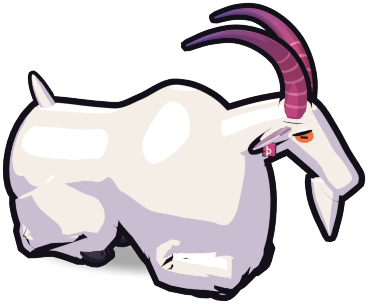
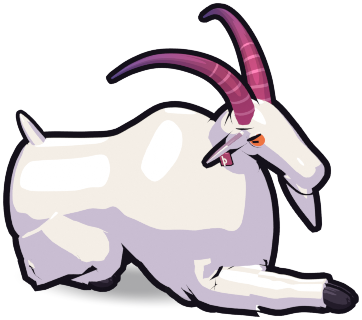
feat(brand): re-render Grisnir front 3/4, add head crop, milestone and waiting poses
The badge turns his face and both horns to the camera with the frame fitted
to the drawn outline, so the horn tips no longer clip. The rest pose now
lies sternal with one foreleg stretched forward and the head up, which reads
as a goat lying down where the folded-legs-only pose read as a lump. New:
a head-and-horns crop for small sizes, a hop for milestones and a waiting
stand beside a trail sign for empty states.

diff --git a/apps/web/src/lib/components/RestDayGrisnir.svelte b/apps/web/src/lib/components/RestDayGrisnir.svelte
@@ -11,13 +11,13 @@
 
 <div class="rest-grisnir" data-testid="rest-day-grisnir">
 	<picture>
-		<source type="image/webp" srcset="{ART}-192.webp 188w, {ART}-384.webp 368w" sizes="7.5rem" />
+		<source type="image/webp" srcset="{ART}-192.webp 184w, {ART}-384.webp 362w" sizes="7.5rem" />
 		<img
 			src="{ART}-192.png"
-			srcset="{ART}-192.png 188w, {ART}-384.png 368w"
+			srcset="{ART}-192.png 184w, {ART}-384.png 362w"
 			sizes="7.5rem"
-			width="188"
-			height="156"
+			width="184"
+			height="162"
 			alt=""
 			aria-hidden="true"
 			loading="lazy"

diff --git a/scripts/brand/render_mascot.py b/scripts/brand/render_mascot.py
@@ -9,19 +9,22 @@ is scaled down from a larger still.
 
 Options:
     --out DIR      where the raw renders go (default ~/.cache/grisnir-render/raw)
-    --only WHAT    badge | rest | all (default all)
+    --only WHAT    one pose name below, or all (default all)
     --preview      one 512 px render of each pose, for look-dev
 
 Poses:
-    badge   the standing 3/4 view, for a corner of a share card
-    rest    lying down with the legs folded under, for rest days
+    badge   standing, a front 3/4 view, horns clear of the frame
+    head    the same pose framed on the head and horns, for small sizes
+    rest    lying down, legs folded under, head up, for rest days
+    proud   a goat's hop (all four hooves tucked, off the ground), for milestones
+    wait    standing beside a trail post, looking back at you, for empty states
 
 Each pose is posed here from the rig's rest pose; the .blend is never edited.
 The camera is orthographic and fitted to the posed goat, Eevee with the
 model's own flat toon shading, film transparent. `render_mascot.sh` trims
 the transparent margin and writes the PNG and WebP exports.
 """
-import bpy, json, math, os, sys
+import bpy, bmesh, json, math, os, sys
 from mathutils import Vector
 from bpy_extras.object_utils import world_to_camera_view
 
@@ -40,12 +43,18 @@ PREVIEW = "--preview" in argv
 # the shipped file is a little smaller than this; README.md lists the results.
 SIZES = {
     "badge": [256],
+    "head": [128, 256],
     "rest": [192, 384],
+    "proud": [192, 384],
+    "wait": [192, 384],
 }
 # The outline is an inverted hull sized in model units, so a small render needs
 # a heavier line to hold the same drawn weight (render_sprites.py uses 1.6 for
-# its 256 px sprites).
-def ink_for(px):
+# its 256 px sprites). The head crop is drawn at a larger scale per px, so it
+# needs less help.
+def ink_for(px, close=False):
+    if close:
+        return 1.25 if px <= 128 else 1.0
     return 1.7 if px <= 192 else 1.35 if px <= 384 else 1.1
 
 
@@ -79,25 +88,37 @@ def line_weight(factor):
             ob.modifiers["hull"].strength = -base * (factor if base >= 0.008 else 1.0)
 
 
-def mesh_points():
+HEAD_PARTS = ("head", "horn_", "ear_", "eye_", "lid_", "lidline_", "pupil_", "beard", "tag")
+
+
+def mesh_points(head_only=False, shadow=False):
     dg = bpy.context.evaluated_depsgraph_get()
     pts = []
     for ob in scene.objects:
-        if ob.type == "MESH" and not ob.name.startswith("contact_shadow") and not ob.hide_render:
-            ev = ob.evaluated_get(dg)
-            me = ev.to_mesh()
-            pts += [ev.matrix_world @ v.co for v in me.vertices]
-            ev.to_mesh_clear()
+        if ob.type != "MESH" or ob.hide_render:
+            continue
+        if ob.name.startswith("contact_shadow") and not shadow:
+            continue
+        if head_only and not ob.name.startswith(HEAD_PARTS):
+            continue
+        ev = ob.evaluated_get(dg)
+        me = ev.to_mesh()
+        pts += [ev.matrix_world @ v.co for v in me.vertices]
+        ev.to_mesh_clear()
     return pts
 
 
-def frame_fit(tilt, margin):
+def frame_fit(tilt, margin, head_only=False, shadow=False, lift=0.0):
+    """Fit the orthographic camera to the posed goat's ink hull (so the line
+    weight must already be set). `lift` moves the frame's centre up by that
+    fraction of its height, for a bust whose neck should run off the bottom."""
     aim(tilt, (0, 0, 0), 10)
     bpy.context.view_layer.update()
-    pts = [world_to_camera_view(scene, cam, p) for p in mesh_points()]
+    pts = [world_to_camera_view(scene, cam, p) for p in mesh_points(head_only, shadow)]
     xs, ys = [p.x for p in pts], [p.y for p in pts]
     cx, cy = (min(xs) + max(xs)) / 2 - 0.5, (min(ys) + max(ys)) / 2 - 0.5
     ext = max(max(xs) - min(xs), max(ys) - min(ys)) * 10 * margin
+    cy -= lift * ext / 10
     t = math.radians(tilt)
     right, up = Vector((1, 0, 0)), Vector((0, math.cos(t), math.sin(t)))
     aim(tilt, right * cx * 10 + up * cy * 10, ext)
@@ -110,10 +131,23 @@ for b in pb:
     b.rotation_mode = "XYZ"
 
 
+BODY = [ob for ob in scene.objects if ob.type == "MESH" and not ob.name.startswith(HEAD_PARTS)]
+
+
+def bust(on):
+    """The head crop draws the head and horns alone, as a face icon: with the
+    body behind him the crop's edges cut a hard white block out of the coat,
+    and with the neck alone he reads as a mounted trophy."""
+    for ob in BODY:
+        ob.hide_render = on
+
+
 def reset():
+    bust(False)
     for b in pb:
         b.location = (0, 0, 0)
         b.rotation_euler = (0, 0, 0)
+    post_show(False)
 
 
 def yz_angle(bone):
@@ -129,11 +163,12 @@ LEG_SEGMENTS = {
 }
 
 
-def set_leg(leg, kind, absolute_deg):
-    """Pose one leg by the absolute side-plane angle of each segment, the way
-    the rig's own gait code does: each bone turns by its change in angle less
-    its parent's."""
-    prev = 0.0
+def set_leg(leg, kind, absolute_deg, body_pitch=0.0):
+    """Pose one leg by the absolute side-plane angle of each segment (0 points
+    forward, -90 straight down, 180 back), the way the rig's own gait code
+    does: each bone turns by its change in angle less its parent's. A pitched
+    body turns the whole leg with it, so `body_pitch` is taken back out."""
+    prev = math.radians(body_pitch)
     for seg, a in zip(LEG_SEGMENTS[kind], absolute_deg):
         bone = rig.data.bones[f"{leg}_{seg}"]
         delta = math.radians(a) - yz_angle(bone)
@@ -145,34 +180,159 @@ def heading(h):
     rig.rotation_euler = (0, 0, -math.radians(h))
 
 
+def look(neck_pitch=0.0, neck_turn=0.0, head_pitch=0.0, head_turn=0.0):
+    """Neck and head: pitch raises (+) or lowers the muzzle, turn swings it
+    toward the goat's right (+), which faces the camera in every pose here."""
+    pb["neck"].rotation_euler = (math.radians(neck_pitch), 0, math.radians(neck_turn))
+    pb["head"].rotation_euler = (math.radians(head_pitch), 0, math.radians(head_turn))
+
+
+# ---------------------------------------------------------------- trail post
+# A waymarker post for the waiting pose: a squared timber post with a
+# brand-pink blaze, in the model's own hoof and tag materials and its own
+# inverted-hull ink, built here so the .blend is never edited.
+POST = []
+
+
+def _box(cx, cy, z0, z1, hw, bevel_top=0.0):
+    me = bpy.data.meshes.new("post")
+    bm = bmesh.new()
+    res = bmesh.ops.create_cube(bm, size=1.0)
+    for v in res["verts"]:
+        v.co.x = cx + v.co.x * 2 * hw
+        v.co.y = cy + v.co.y * 2 * hw
+        v.co.z = z0 + (v.co.z + 0.5) * (z1 - z0)
+        if bevel_top and v.co.z > z1 - 1e-6:
+            v.co.x = cx + (v.co.x - cx) * (1 - bevel_top)
+            v.co.y = cy + (v.co.y - cy) * (1 - bevel_top)
+    bmesh.ops.subdivide_edges(bm, edges=bm.edges[:], cuts=2, use_grid_fill=True)
+    bm.to_mesh(me)
+    bm.free()
+    return me
+
+
+def _prop(name, me, mat, line):
+    me.materials.append(bpy.data.materials[mat])
+    ob = bpy.data.objects.new(name, me)
+    scene.collection.objects.link(ob)
+    POST.append(ob)
+    if line:
+        me2 = me.copy()
+        me2.materials.clear()
+        me2.materials.append(bpy.data.materials["ink"])
+        bm = bmesh.new()
+        bm.from_mesh(me2)
+        bmesh.ops.reverse_faces(bm, faces=bm.faces)
+        bm.to_mesh(me2)
+        bm.free()
+        ol = bpy.data.objects.new(name + "_ink", me2)
+        scene.collection.objects.link(ol)
+        d = ol.modifiers.new("hull", "DISPLACE")
+        d.direction, d.mid_level, d.strength = "NORMAL", 0.0, -line
+        ol["line"] = line
+        POST.append(ol)
+
+
+def build_post(x, y):
+    """A trail sign: a timber post and an arrow board pointing the way he faces."""
+    _prop("post_wood", _box(x, y, 0.0, 0.98, 0.042, bevel_top=0.3), "hoof", 0.016)
+    me = bpy.data.meshes.new("post_board")
+    bm = bmesh.new()
+    z0, z1, t = 0.70, 0.86, 0.022
+    outline = [(x - 0.05, z0), (x + 0.26, z0), (x + 0.34, (z0 + z1) / 2), (x + 0.26, z1), (x - 0.05, z1)]
+    front = [bm.verts.new((px, y - 0.046 - t, pz)) for px, pz in outline]
+    back = [bm.verts.new((px, y - 0.046 + t, pz)) for px, pz in outline]
+    bm.faces.new(front)
+    bm.faces.new(list(reversed(back)))
+    for i in range(len(outline)):
+        j = (i + 1) % len(outline)
+        bm.faces.new([front[i], back[i], back[j], front[j]])
+    bmesh.ops.recalc_face_normals(bm, faces=bm.faces)
+    bm.to_mesh(me)
+    bm.free()
+    _prop("post_board", me, "tag", 0.012)
+    me = bpy.data.meshes.new("post_shadow")
+    n = 32
+    me.from_pydata([(0, 0, 0)] + [(math.cos(2 * math.pi * k / n), math.sin(2 * math.pi * k / n), 0) for k in range(n)],
+                   [], [(0, 1 + k, 1 + (k + 1) % n) for k in range(n)])
+    _prop("post_shadow", me, "contact_shadow", 0.0)
+    POST[-1].location = (x, y, 0.002)
+    POST[-1].scale = (0.14, 0.09, 1)
+
+
+def post_show(on):
+    for ob in POST:
+        ob.hide_render = not on
+
+
+build_post(0.9, 0.42)
+post_show(False)
+
+
+# ------------------------------------------------------------------- poses
 def pose_badge():
     reset()
-    heading(145)
+    heading(152)
+    # Head up and turned to the camera so the face and both horns read.
+    look(neck_pitch=6, neck_turn=-18, head_pitch=4, head_turn=-14)
 
 
-# Lying down (sternal, as goats rest): the body lowered to the ground, the
-# forelegs folded at the knee under the chest, the hind legs folded forward
-# beside the belly. The legs stay in their own planes, never splayed out.
-REST_DROP = 0.41
+# Lying down (sternal, as goats rest): the body lowered to the ground and
+# pitched a little rump-down, the forelegs folded at the knee under the chest,
+# the hind legs folded forward beside the belly with the hock behind. The
+# legs stay in their own planes, never splayed out. The head is carried up.
+REST_DROP = 0.40
+REST_PITCH = 5.0
 
 
 def pose_rest():
     reset()
-    heading(112)
+    heading(104)
     pb["body"].location = (0, 0, -REST_DROP)
-    for leg in ("FL", "FR"):
-        set_leg(leg, "fore", [-100, -4, 178, 172])
+    pb["body"].rotation_euler = (math.radians(REST_PITCH), 0, 0)
+    # The far foreleg folded flat; the near one folded with its knee ahead.
+    set_leg("FL", "fore", [-100, -4, 178, 172], REST_PITCH)
+    set_leg("FR", "fore", [-74, -6, 4, -16], REST_PITCH)
     for leg in ("HL", "HR"):
-        set_leg(leg, "hind", [-44, -172, -8, -24])
-    # The head carried a touch lower and turned a little toward the viewer:
-    # settled, not asleep.
-    pb["neck"].rotation_euler = (math.radians(-6), 0, math.radians(14))
-    pb["head"].rotation_euler = (math.radians(4), 0, 0)
+        set_leg(leg, "hind", [-40, -174, -6, -22], REST_PITCH)
+    look(neck_pitch=14, neck_turn=-16, head_pitch=-4, head_turn=-10)
 
 
+# A goat's hop: all four hooves tucked and off the ground, back level, head up.
+HOP = 0.2
+
+
+def pose_proud():
+    reset()
+    heading(140)
+    pb["body"].location = (0, 0, HOP)
+    pb["body"].rotation_euler = (math.radians(6), 0, 0)
+    for leg in ("FL", "FR"):
+        set_leg(leg, "fore", [-112, -128, -70, -40], 6)
+    for leg in ("HL", "HR"):
+        set_leg(leg, "hind", [-62, -136, -96, -70], 6)
+    look(neck_pitch=12, neck_turn=-16, head_pitch=6, head_turn=-10)
+
+
+def pose_head():
+    pose_badge()
+    bust(True)
+
+
+def pose_wait():
+    reset()
+    heading(100)
+    post_show(True)
+    look(neck_pitch=8, neck_turn=-40, head_pitch=2, head_turn=-30)
+
+
+# name: (pose, camera tilt, margin, head_only, include shadow, lift)
 POSES = {
-    "badge": (pose_badge, 76, 1.06),
-    "rest": (pose_rest, 72, 1.06),
+    "badge": (pose_badge, 78, 1.10, False, False, 0.0),
+    "head": (pose_head, 80, 1.08, False, False, 0.0),
+    "rest": (pose_rest, 68, 1.08, False, False, 0.0),
+    "proud": (pose_proud, 76, 1.08, False, True, 0.0),
+    "wait": (pose_wait, 78, 1.08, False, False, 0.0),
 }
 
 
@@ -183,22 +343,23 @@ def render(path):
 
 
 made = {}
-for name, (pose, tilt, margin) in POSES.items():
+for name, (pose, tilt, margin, head_only, shadow, lift) in POSES.items():
     if ONLY not in ("all", name):
         continue
     pose()
     scene.frame_set(0)
-    # The fit reads normalised camera coordinates, so it needs the square
-    # aspect the renders use.
-    scene.render.resolution_x = scene.render.resolution_y = 512
-    bpy.context.view_layer.update()
-    frame_fit(tilt, margin)
     for px in ([512] if PREVIEW else SIZES[name]):
-        line_weight(ink_for(px))
+        line_weight(ink_for(px, close=head_only))
+        # The fit reads normalised camera coordinates, so it needs the square
+        # aspect the renders use; it runs per size because the hull it fits
+        # grows with the line weight.
         scene.render.resolution_x = scene.render.resolution_y = px
+        bpy.context.view_layer.update()
+        frame_fit(tilt, margin, head_only, shadow, lift)
         path = os.path.join(OUT, f"{name}-{px}.png")
         render(path)
         made.setdefault(name, []).append(path)
+
 
 with open(os.path.join(OUT, "renders.json"), "w") as fh:
     json.dump(made, fh, indent=1)
